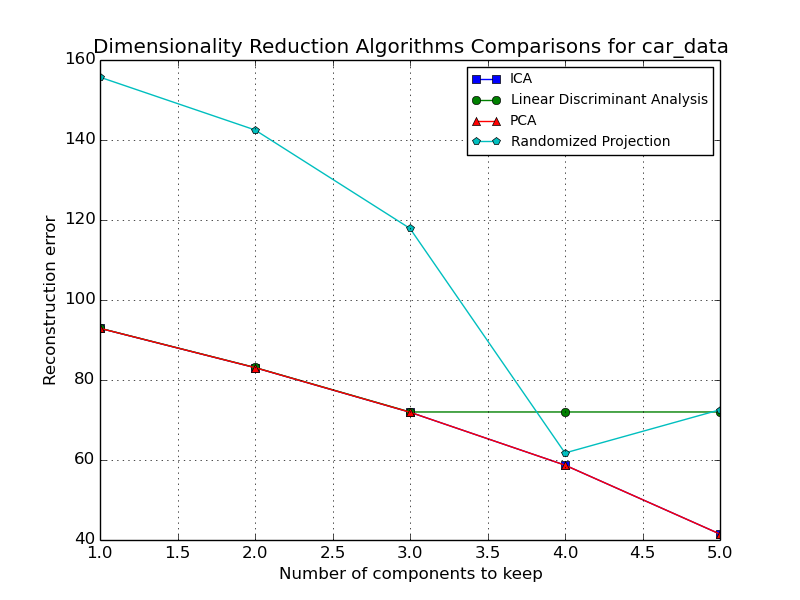
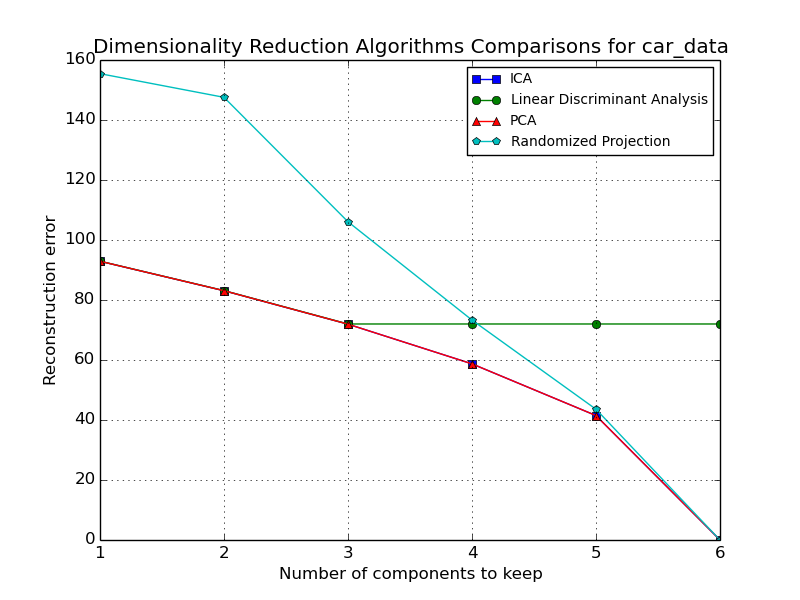
update

diff --git a/proj3/experiments.py b/proj3/experiments.py
@@ -4,7 +4,7 @@ import matplotlib.pyplot as plt
 from matplotlib.font_manager import FontProperties
 import numpy as np
 import pandas as pd
-import pickle
+from scipy.stats import kurtosis
 from sklearn.preprocessing import StandardScaler
 from sklearn.cluster import KMeans
 from sklearn.preprocessing import scale
@@ -98,10 +98,10 @@ def dimension_reduction(dataset, x, y, ns):
         #print('pca - reduced X: {0}'.format(reduced_X))
 
         ica = FastICA(n_components=n)
-        reduced_X = ica.fit_transform(X)
-        reconstructed_X = ica.inverse_transform(reduced_X)
-        error = np.linalg.norm((X-reconstructed_X), None)
-        rec_errs_ica.append(error)
+        ica_reduced_X = ica.fit_transform(X)
+        ica_reconstructed_X = ica.inverse_transform(ica_reduced_X)
+        ica_error = np.linalg.norm((X-ica_reconstructed_X), None)
+        rec_errs_ica.append(ica_error)
         #print('ica - reduced X: {0}'.format(reduced_X))
 
         grp = GaussianRandomProjection(n_components=n)
@@ -111,9 +111,6 @@ def dimension_reduction(dataset, x, y, ns):
         error = np.linalg.norm((X-reconstructed_X), None)
         rec_errs_rp.append(error)
 
-#        skb = SelectKBest(mutual_info_classif, k=n)
-#        reduced_X = skb.fit_transform(X, y)
-#        reconstructed_X = skb.inverse_transform(reduced_X)
         lda = LinearDiscriminantAnalysis(n_components=n)
         reduced_X = lda.fit_transform(X, y)
         pinv = np.linalg.pinv(lda.scalings_[:, 0:n])
@@ -140,9 +137,43 @@ def dimension_reduction(dataset, x, y, ns):
     plt.legend(loc='best', prop=fontP)
     plt.savefig(filename)
 
+    eig_vals = np.linalg.eigvals(pca.get_covariance())
+    var_exp = pca.explained_variance_ratio_
+    print('Eigenvalues:')
+    print('{}'.format(eig_vals))
+#    print('Explained variance (%):')
+#    print('{}'.format(var_exp))
+    cum_var_exp = np.cumsum(var_exp)
+    plt.figure()
+    plt.title('PCA generated principal components: all features in '+dataset)
+    plt.bar(np.array(range(len(var_exp)))+1, var_exp, color='b', alpha=0.5, align='center',
+            label='individual explained variance')
+    plt.bar(np.array(range(len(eig_vals)))+1, eig_vals, color='r', alpha=0.3, align='center',
+            label='individual eigen value')
+    plt.step(np.array(range(len(var_exp)))+1, cum_var_exp, where='mid',
+             label='cumulative explained variance')
+    plt.xlabel('Principal components')
+    fontP = FontProperties()
+    fontP.set_size('small')
+    plt.legend(loc='best', prop=fontP)
+    plt.tight_layout()
+    plt.savefig(dataset+"_pca_var_exp")
+
+    ica_kurtos = kurtosis(ica_reduced_X, fisher=False)
+    print('ICA kurtosis: {}'.format(ica_kurtos))
+#    plt.figure()
+#    plt.title('ICA generated principal components: all features in '+dataset)
+#    plt.bar(range(len(ica_kurtos)), ica_kurtos, alpha=0.5, align='center',
+#            label='individual kurtosis')
+#    plt.ylabel('Kurtosis')
+#    plt.xlabel('Principal components')
+#    plt.legend(loc='best')
+#    plt.tight_layout()
+#    plt.savefig(dataset+"_ica_kurt")
+
 if __name__=='__main__':
     np.random.seed(42)
-    dataset1 = 'car.data'
+    dataset1 = 'car.data' # 6 attributes 4 classes
     print("-----------------------------------Dataset 1--------------------------------------")
     x, y = load_data(dataset1)
     x_train, x_test, y_train, y_test = split_train_test(x, y, 0.3)
@@ -150,13 +181,13 @@ if __name__=='__main__':
     
     print("--------------------------Experiment 1------------------------------")
     ks = [2,3,4,5,6,7]
-    clustering(dataset1, x, y, ks)
+#    clustering(dataset1, x, y, ks)
 
     print("--------------------------Experiment 2------------------------------")
-    ns = [1,2,3,4,5]
+    ns = [1,2,3,4,5,6]
     dimension_reduction(dataset1, x, y, ns)
 
-    dataset2 = 'tic-tac-toe.data'
+    dataset2 = 'tic-tac-toe.data' # 9 attributes 2 classes
     print("-----------------------------------Dataset 2--------------------------------------")
     x, y = load_data2(dataset2,attributes=10)
     x_train, x_test, y_train, y_test = split_train_test(x, y, 0.2)
@@ -164,9 +195,9 @@ if __name__=='__main__':
 
     print("--------------------------Experiment 1------------------------------")
     ks = [2,3,4,5]
-    clustering(dataset2, x, y, ks)
+#    clustering(dataset2, x, y, ks)
 
     print("--------------------------Experiment 2------------------------------")
-    ns = [1,2,3,4,5,6,7,8]
+    ns = [1,2,3,4,5,6,7,8,9]
     dimension_reduction(dataset2, x, y, ns)
 
